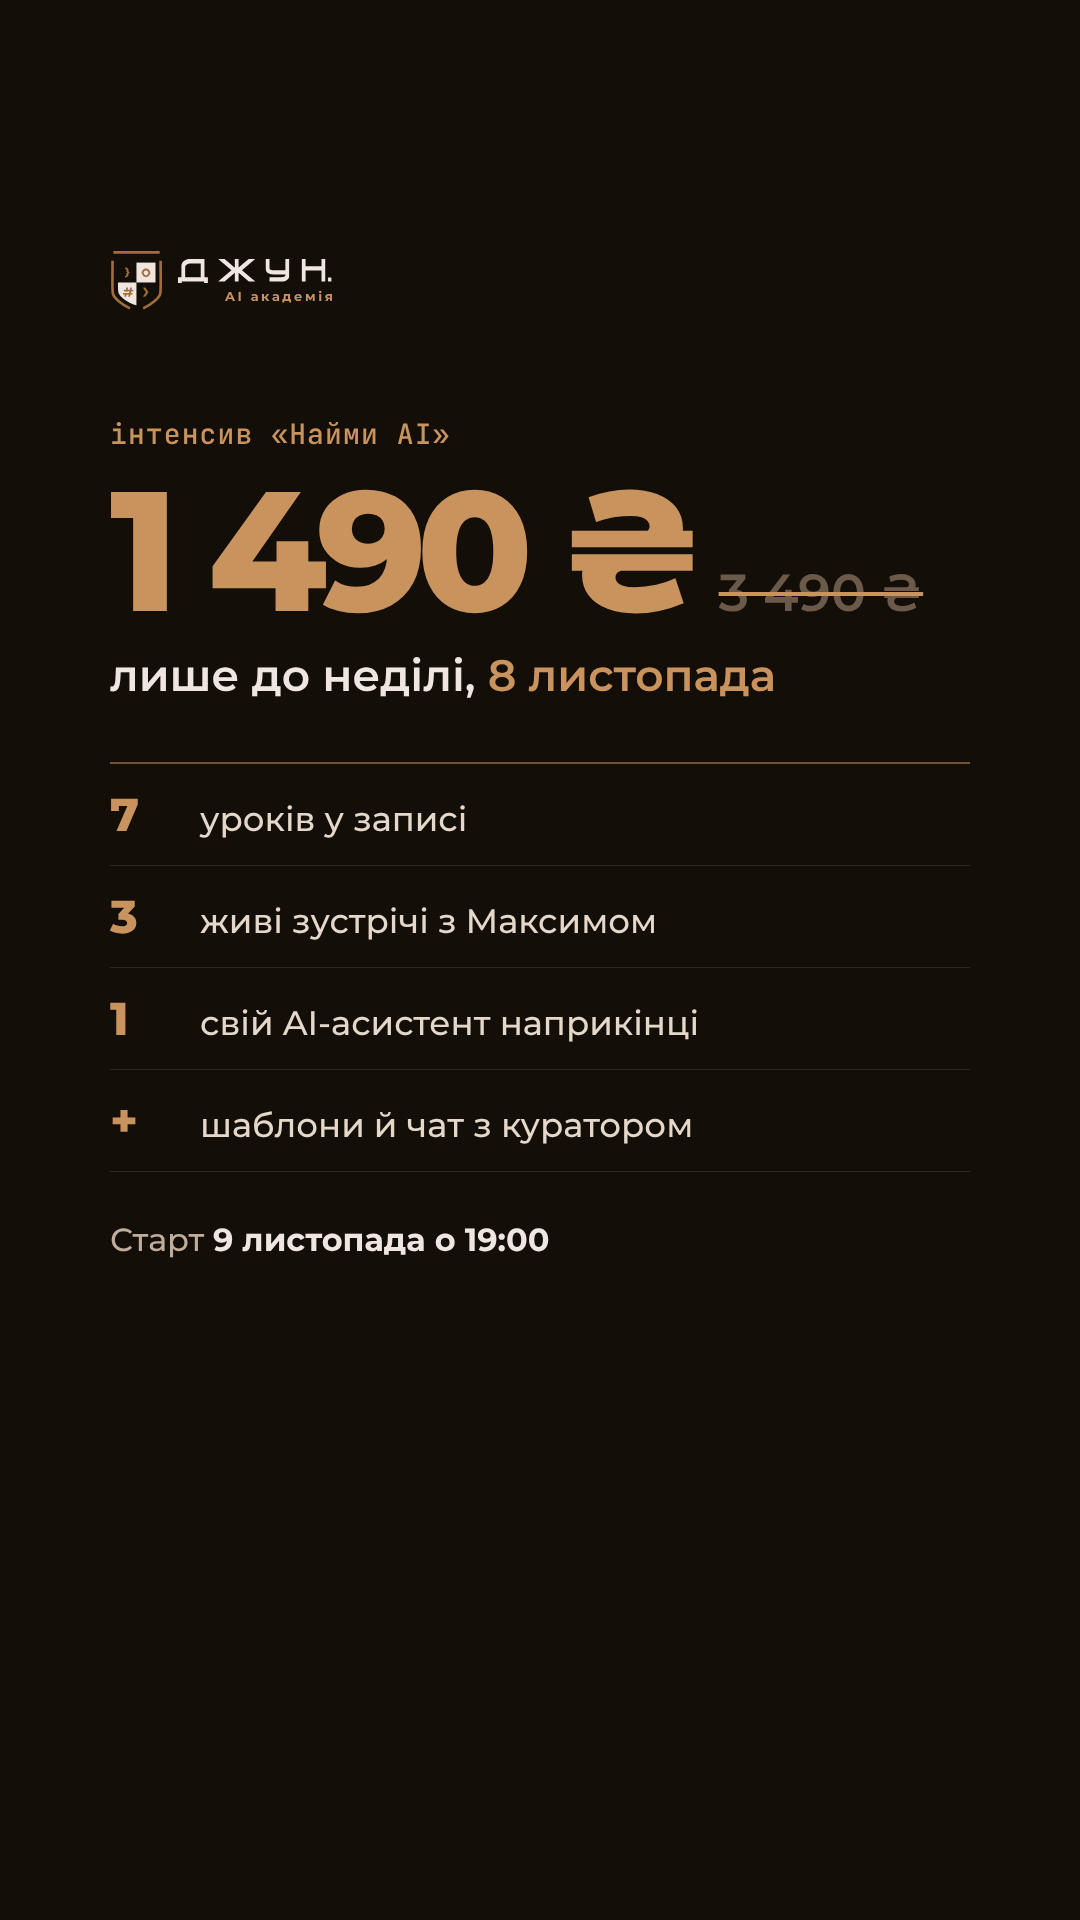
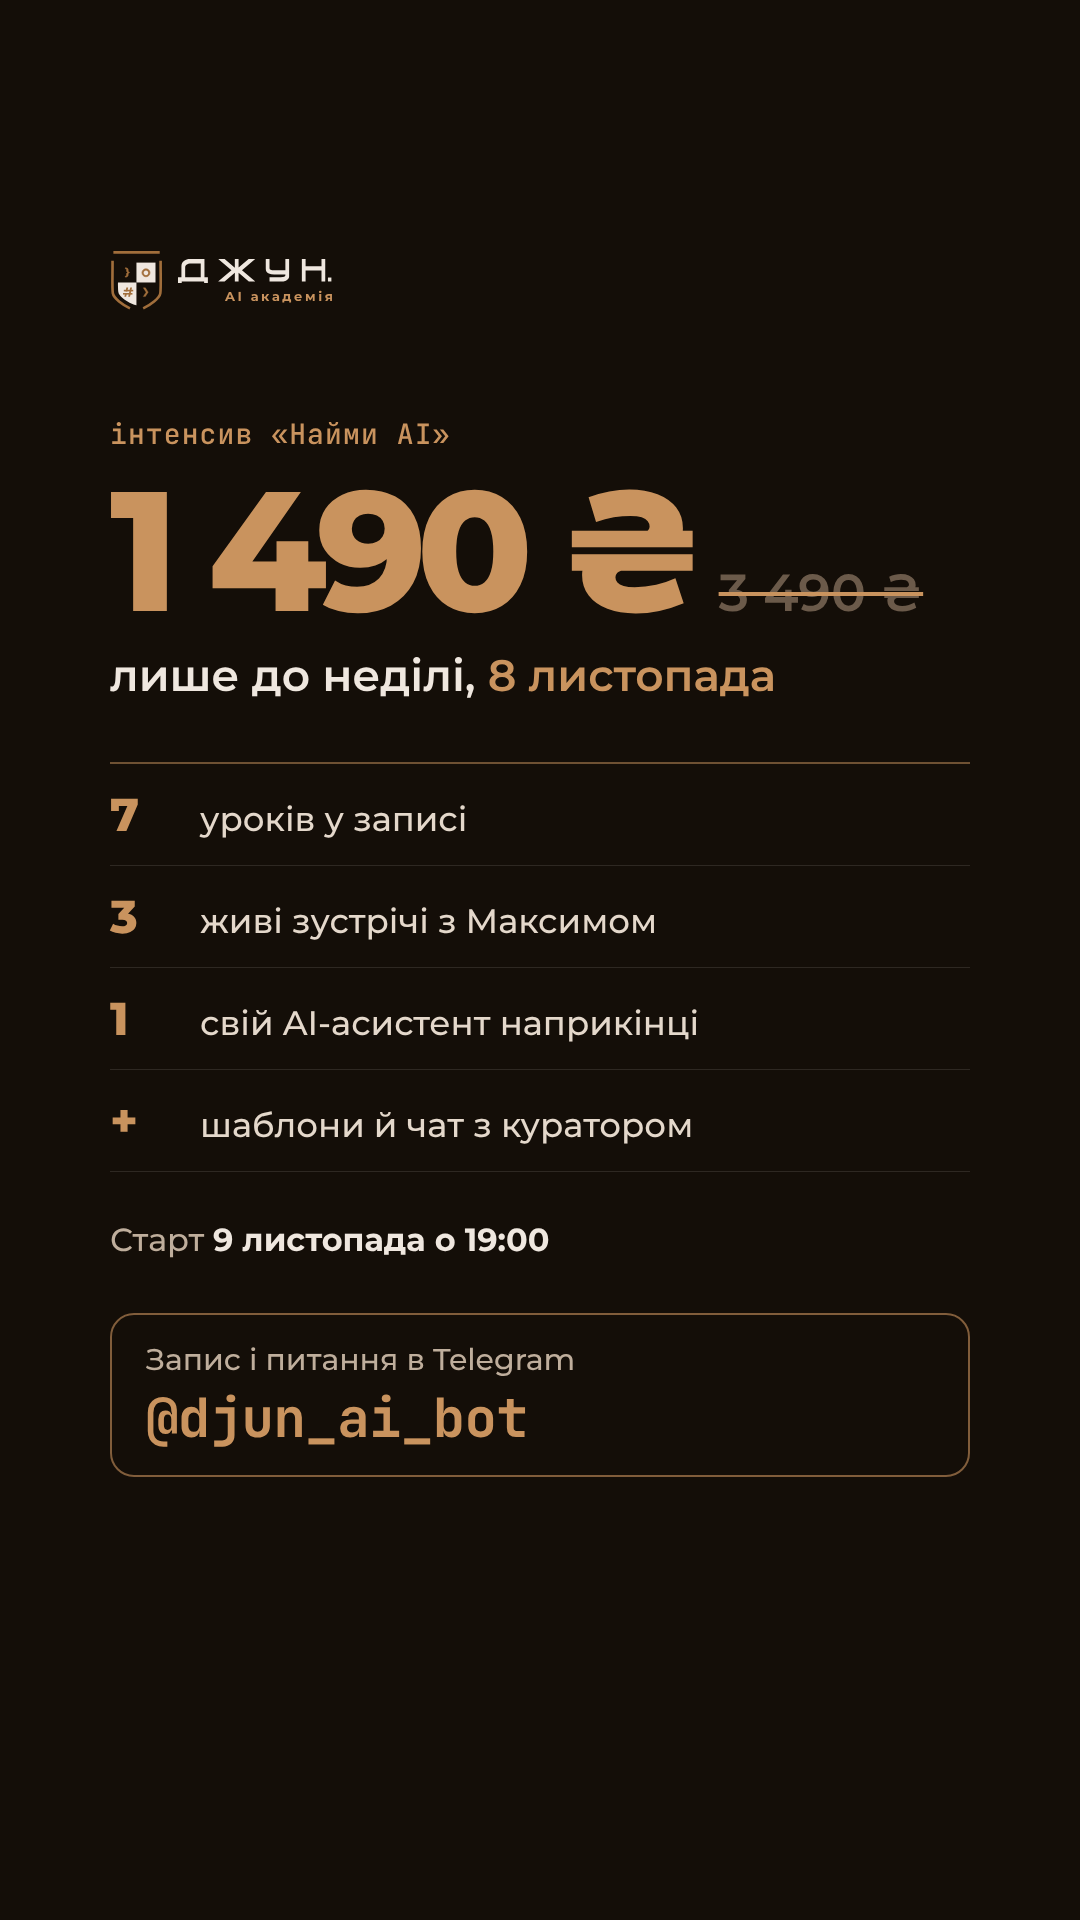
Friday story: add Telegram bot handle
Claude-Session: https://claude.ai/code/session_01F8vpXYV6V72iEGbNVpHMN7

Changed region(s): [[0.1222, 0.6875, 0.3667, 0.75], [0.3972, 0.6875, 0.5194, 0.75]]

diff --git a/2026-11-06_stories/fri_one.html b/2026-11-06_stories/fri_one.html
@@ -14,7 +14,7 @@
 .r b{font-weight:800;font-size:46px;color:#C9935E;min-width:64px;letter-spacing:-.02em}
 .r span{font:500 34px/1.3 M;color:#E4D8CB}
 .st{margin-top:46px;font:500 32px/1.4 M;color:#BFAE9C}.st b{color:#EFE7DF;font-weight:700}
-</style><div class="logo"><img src="crest_light.svg" style="height:60px"><div class="w"><img src="letters_light.svg" style="height:25px"><small>AI академія</small></div></div>
+.tg{margin-top:50px;padding:30px 34px;border:2px solid rgba(201,147,94,.6);border-radius:24px}.tg span{display:block;font:500 30px/1 M;color:#BFAE9C}.tg b{display:block;font:700 54px/1 J;color:#C9935E;margin-top:16px;letter-spacing:-.01em}</style><div class="logo"><img src="crest_light.svg" style="height:60px"><div class="w"><img src="letters_light.svg" style="height:25px"><small>AI академія</small></div></div>
 <div class="col"><div class="k">інтенсив «Найми AI»</div>
 <div class="pr"><div class="new">1 490 ₴</div><div class="old">3 490 ₴</div></div>
 <div class="dl">лише до неділі, <em>8 листопада</em></div>
@@ -23,4 +23,5 @@
 <div class="r"><b>3</b><span>живі зустрічі з Максимом</span></div>
 <div class="r"><b>1</b><span>свій AI-асистент наприкінці</span></div>
 <div class="r"><b>+</b><span>шаблони й чат з куратором</span></div></div>
-<div class="st">Старт <b>9 листопада о 19:00</b></div></div>
+<div class="st">Старт <b>9 листопада о 19:00</b></div>
+<div class="tg"><span>Запис і питання в Telegram</span><b>@djun_ai_bot</b></div></div>
